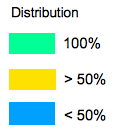
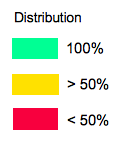
change some mapping colors

diff --git a/web/district_stats.py b/web/district_stats.py
@@ -42,7 +42,7 @@ for k in district_stats.keys():
     elif coverage > 50 and coverage < 100:
         color = 'rgba(255, 215, 0, 0.8)'
     elif coverage > 0 and coverage < 50:
-        color = 'rgba(30, 144, 225, 0.7)'
+        color = 'rgba(220, 20, 60, 0.7)'
     else:
         color = 'rgba(255, 100, 50, 0.1)'
     district_stats[k]['color'] = color
